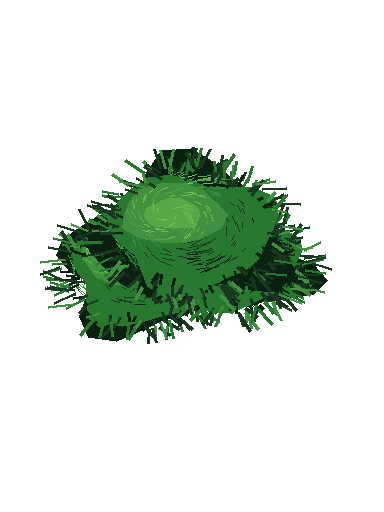
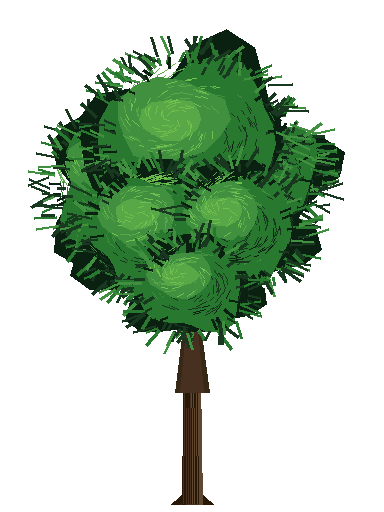
Make bush shrubs rounder and less flattened
Taller bush geometry, rounder canopy lobes, regenerated bush PNG with
stacked dome clusters and visible stub trunk.

Changed region(s): [[0.0625, 0.0625, 0.9062, 1.0]]

diff --git a/cursor/topdown-city/js/08-render-assets.js b/cursor/topdown-city/js/08-render-assets.js
@@ -1283,7 +1283,7 @@ function treeLean(t){
 function treeWindAt(t,u){
   const H=t.H||t.s*0.6, ph=((t.x*0.019+t.y*0.013)%6.283), ph2=ph*1.618+t.s*0.011;
   const h=u*u, kind=t.kind||"deciduous";
-  const k=kind==="pine"||kind==="spruce"?0.86:kind==="bush"?0.52:kind==="birch"?1.08:kind==="willow"?0.96:kind==="maple"?1.02:1.0;
+  const k=kind==="pine"||kind==="spruce"?0.86:kind==="bush"?0.68:kind==="birch"?1.08:kind==="willow"?0.96:kind==="maple"?1.02:1.0;
   const amp=H*(typeof windAmp!=="undefined"?windAmp:0.12)*h*k*0.55;
   const wt=typeof windT!=="undefined"?windT:0;
   const wx=Math.sin(wt*1.42+ph)*amp+Math.sin(wt*2.38+ph2)*amp*0.22;
@@ -1301,17 +1301,18 @@ function treeScreenBox(t){
 }
 function treeVisible(p,cl,cr,ct,cb){ const b=treeScreenBox(p); return b.maxX>=cl&&b.minX<=cr&&b.maxY>=ct&&b.minY<=cb; }
 // ── PNG tree sprites (Pillow-generated, assets/trees/*.png) ──────────────
+const TREE_ASSET_V=2;
 const TREE_SPRITE={ready:false,meta:null,img:{}};
 window.TREE_SPRITE=TREE_SPRITE;
 (function loadTreeSprites(){
-  fetch("assets/trees/meta.json").then(r=>r.json()).then(meta=>{
+  fetch("assets/trees/meta.json?v="+TREE_ASSET_V).then(r=>r.json()).then(meta=>{
     TREE_SPRITE.meta=meta;
     const kinds=Object.keys(meta.kinds); let left=kinds.length||0;
     if(!left){ TREE_SPRITE.ready=true; return; }
     for(const k of kinds){
       const im=new Image();
       im.onload=im.onerror=()=>{ if(--left<=0) TREE_SPRITE.ready=true; };
-      im.src="assets/trees/"+meta.kinds[k].file;
+      im.src="assets/trees/"+meta.kinds[k].file+"?v="+TREE_ASSET_V;
       TREE_SPRITE.img[k]=im;
     }
   }).catch(()=>{});
@@ -1332,8 +1333,8 @@ function treeKindMeta(kind){
 function treeSpriteScale(t){
   const m=treeKindMeta(t.kind||"deciduous");
   const H=t.H||t.s*0.6;
-  // Lock scale to lean height so PNG keeps native aspect — never squash to match crownR width.
   let sc=(H*TREE_LEAN_DEPTH*treeDepthK(t))/(m.height||128);
+  if(t.kind==="bush") sc*=1.18;
   sc=Math.round(sc*4)/4;
   return Math.max(0.35, sc);
 }
@@ -1383,15 +1384,16 @@ function treeRand(t){
   return ()=>{ s=(s*1664525[phone redacted])>>>0; return s/4294967296; };
 }
 // Chrono Trigger sphere-clump: shadow blob (SE offset) → mid fill → NW highlight cap.
-function drawCTLobe(map,R,pal,ox,oy,lr){
+function drawCTLobe(map,R,pal,ox,oy,lr,round){
   const q=map(ox,oy,1,0,0), rr=lr*R;
   const lit=-ox*0.68-oy*0.52;
-  ctx.fillStyle=pal.m;                                              // subtle underside (leaf clusters add the real shading)
-  ctx.beginPath(); ctx.ellipse(q[0]+rr*0.08,q[1]+rr*0.10,rr*0.92,rr*0.62,0,0,7); ctx.fill();
-  ctx.fillStyle=lit>0.10?pal.l:pal.m;                               // body never goes full-dark (avoids black holes)
-  ctx.beginPath(); ctx.ellipse(q[0],q[1],rr,rr*0.70,0,0,7); ctx.fill();
-  ctx.fillStyle=lit>0.05?pal.h:pal.l;                               // gentle form light (stipple adds the sparkle)
-  ctx.beginPath(); ctx.ellipse(q[0]-rr*0.24,q[1]-rr*0.22,rr*0.34,rr*0.24,0,0,7); ctx.fill();
+  const sy=round?0.88:0.62, my=round?0.92:0.70, hy=round?0.36:0.24;
+  ctx.fillStyle=pal.m;
+  ctx.beginPath(); ctx.ellipse(q[0]+rr*0.08,q[1]+rr*0.10,rr*0.92,rr*sy,0,0,7); ctx.fill();
+  ctx.fillStyle=lit>0.10?pal.l:pal.m;
+  ctx.beginPath(); ctx.ellipse(q[0],q[1],rr,rr*my,0,0,7); ctx.fill();
+  ctx.fillStyle=lit>0.05?pal.h:pal.l;
+  ctx.beginPath(); ctx.ellipse(q[0]-rr*0.24,q[1]-rr*0.22,rr*0.34,rr*hy,0,0,7); ctx.fill();
 }
 // Chrono Trigger foliage: a dense stipple of small flat-toned leaf specks across the crown. Tone is
 // picked by NW light + a per-speck roll, so lit areas read bright and shaded areas dark WITHOUT the
@@ -1520,7 +1522,7 @@ function drawTreeCanopy(cx,cy,t,lod){
     ctx.closePath(); };
   ctx.fillStyle=pal.d; path(1.05,R*0.02,R*0.10); ctx.fill();          // shaded underside (expanded, sits behind = soft edge, no hard outline)
   ctx.fillStyle=pal.m; path(1.0,0,0); ctx.fill();                     // mid body
-  if(t.lobes){ const lb=t.lobes.slice().sort((a,b)=>b.oy-a.oy); for(const L of lb) drawCTLobe(map,R,pal,L.ox,L.oy,L.lr); }
+  if(t.lobes){ const lb=t.lobes.slice().sort((a,b)=>b.oy-a.oy); const round=t.kind==="bush"; for(const L of lb) drawCTLobe(map,R,pal,L.ox,L.oy,L.lr,round); }
   if(!lod) drawFoliageStipple(map,R,pal,t);                           // dense leaf-speck thicket (no outline)
 }
 function drawProps(L){

diff --git a/cursor/topdown-city/js/01-world.js b/cursor/topdown-city/js/01-world.js
@@ -1119,7 +1119,10 @@ function coniferOutline(r){
 // cel-shaded at draw time (shadow SE, mid fill, highlight NW) — no dots, no noise.
 function canopyLobes(r,kind){
   const j=(v)=>v+(r()-0.5)*0.04;
-  if(kind==="bush") return [{ox:j(0),oy:j(0),lr:0.56},{ox:j(-0.22),oy:j(0.12),lr:0.38},{ox:j(0.20),oy:j(0.10),lr:0.34}];
+  if(kind==="bush") return [
+    {ox:j(0),oy:j(-0.18),lr:0.52},{ox:j(-0.20),oy:j(-0.06),lr:0.44},{ox:j(0.18),oy:j(-0.04),lr:0.42},
+    {ox:j(-0.10),oy:j(0.14),lr:0.36},{ox:j(0.12),oy:j(0.16),lr:0.34},
+  ];
   if(kind==="birch") return [{ox:j(0),oy:j(-0.22),lr:0.42},{ox:j(0),oy:j(0.10),lr:0.36},{ox:j(-0.12),oy:j(-0.04),lr:0.28}];
   if(kind==="oak") return [{ox:j(-0.04),oy:j(-0.06),lr:0.52},{ox:j(0.32),oy:j(0.08),lr:0.44},{ox:j(-0.30),oy:j(0.12),lr:0.40},{ox:j(0.06),oy:j(-0.24),lr:0.36}];
   if(kind==="maple") return [{ox:j(-0.02),oy:j(-0.10),lr:0.54},{ox:j(0.28),oy:j(0.06),lr:0.46},{ox:j(-0.28),oy:j(0.10),lr:0.42},{ox:j(0.04),oy:j(-0.22),lr:0.38}];
@@ -1133,9 +1136,9 @@ function makeTree(x,y,s,r,forceKind,opts){
   const kind=forceKind||(city?(s<24?"bush":"deciduous"):pickForestKind(opts.fi??0,opts.fj??0,r));
   const t={x,y,s,t:"tree",kind,forest:!city,city:city};
   if(kind==="bush"){
-    t.H=s*0.34; t.crownR=s*0.30; t.trunk={tw:s*0.10,frac:0.12};
-    t.outline=leafyOutline(r,0.74,6+(r()*3|0),0.20);
-    t.lobes=canopyLobes(r,"bush"); t.hitR=Math.max(s*0.16,5); return t;
+    t.H=s*0.54; t.crownR=s*0.38; t.trunk={tw:s*0.09,frac:0.22};
+    t.outline=leafyOutline(r,0.96,7+(r()*2|0),0.18);
+    t.lobes=canopyLobes(r,"bush"); t.hitR=Math.max(s*0.18,6); return t;
   }
   if(kind==="pine"||kind==="spruce"){
     const spr=kind==="spruce";
@@ -1259,7 +1262,7 @@ function collideGraves(e){
 function pedEnterPlaza(p){ const A=node(p.pb[0],p.pb[1]);
   p.plaza={i:p.pb[0],j:p.pb[1],cx:A[0],cy:A[1],r:Math.max(30,plazaR(p.pb[0],p.pb[1])-16)};
   p.onGraph=false; p.plazaT=rand(5,12); p.repick=0; p._wait=false; p.cross=0; }
-const LOT_CACHE_VER=19;
+const LOT_CACHE_VER=20;
 const FOREST_GRASS_VARIANTS=["clump_small","clump_med","clump_large","clump_dense","clump_tall","clump_wispy","clump_pine","clump_shade","clump_mossy","clump_dry","patch_moss","clump_fern","clump_needle"];
 function getLot(i,j){
   const key=i+","+j+","+LOT_CACHE_VER; let lot=lotCache.get(key); if(lot) return lot;

diff --git a/cursor/topdown-city/index.html b/cursor/topdown-city/index.html
@@ -60,7 +60,7 @@
   </div>
 </div>
   <script src="js/00-core.js"></script>
-  <script src="js/01-world.js?v=19"></script>
+  <script src="js/01-world.js?v=20"></script>
   <script src="js/02-player.js"></script>
   <script src="js/03-traffic.js"></script>
   <script src="js/04-collisions.js"></script>

diff --git a/cursor/scripts/generate-trees.py b/cursor/scripts/generate-trees.py
@@ -391,10 +391,21 @@ def make_bush(variant: int = 0) -> Image.Image:
     pal = {k: hex_rgb(v) for k, v in {
         "dk": "#0a2010", "d": "#183820", "m": "#287830", "l": "#409040", "h": "#58a848", "hi": "#70c050"
     }.items()}
+    browns = {k: hex_rgb(v) for k, v in {"dk": "#281808", "d": "#382818", "m": "#483020", "l": "#604830"}.items()}
     img = Image.new("RGBA", (W, H), (0, 0, 0, 0))
     draw = ImageDraw.Draw(img)
-    clusters = [(CX - s(12), s(68), s(20), s(14)), (CX + s(10), s(66), s(18), s(12)), (CX, s(58), s(22), s(16))]
-    draw_canopy_clusters(draw, clusters, r, pal, sc(65))
+    # Rounder clusters (ry≈rx), stacked vertically — reads as a bushy mound, not a flat mat
+    clusters = [
+        (CX - s(16), s(46), s(19), s(18)),
+        (CX + s(14), s(44), s(18), s(17)),
+        (CX, s(36), s(24), s(22)),
+        (CX - s(10), s(58), s(17), s(16)),
+        (CX + s(11), s(57), s(16), s(15)),
+    ]
+    draw_canopy_clusters(
+        draw, clusters, r, pal, sc(72),
+        trunk_collar=(CX, s(72), s(14), s(12)), browns=browns, trunk_w=s(5),
+    )
     return img
 
 